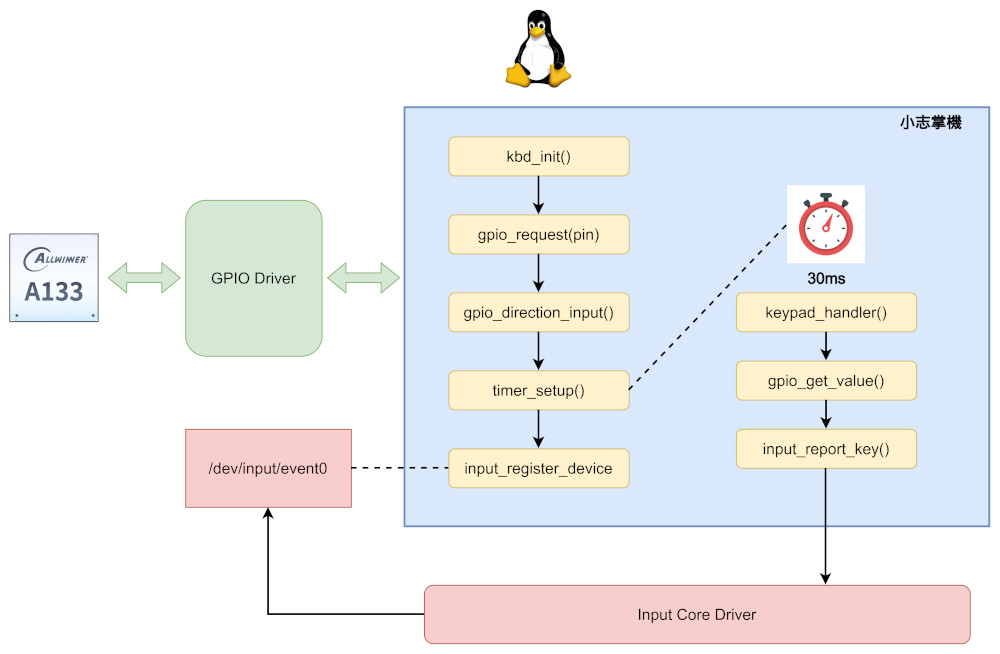
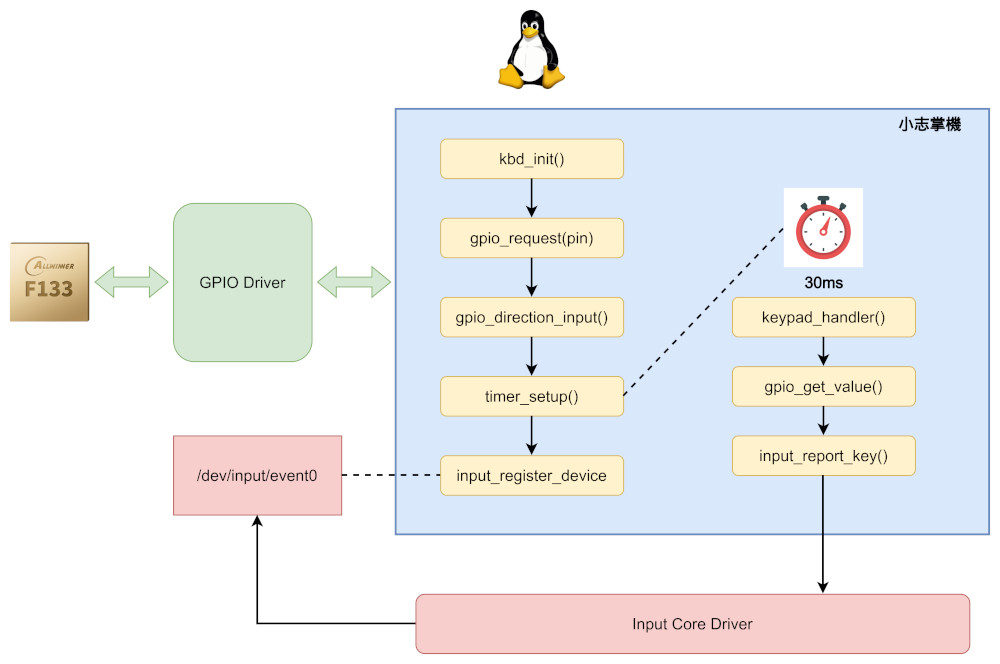
Gaviar Add more description for keypad.

diff --git a/handheld/gaviar_kernel_keypad.htm b/handheld/gaviar_kernel_keypad.htm
@@ -369,7 +369,10 @@ obj-$(CONFIG_KEYBOARD_GAVIAR) += gaviar-keypad.o
 P.S. commit ec03a6057，測試檔案https://github.com/steward-fu/website/releases/download/gaviar/kernel_test_20260919.img<br><br>
 
 小志掌機的Keypad驅動程式，其運作流程如下：<br>
-<img src="gaviar_kernel_keypad/5.jpg" class="maxSize">
+<img src="gaviar_kernel_keypad/5.jpg" class="maxSize"><br><br>
+
+小志掌機的Keypad驅動程式只負責註冊InputDevice，接著設定一個Timer做GPIO輪詢的操作，輪詢的間隔是30ms，比較好的作法其實是中斷＋輪詢，不過，簡單製作的話，輪詢方式其實已經很足夠使用了，值得一提是，GPIO驅動程式，因為Tina-Linux已經移植完成，所以我們可以直接透過GPIO驅動程式來取得按鍵的狀態，假如沒有GPIO驅動程式的支援，我們就需要改用I/O Mapping，然後自己去讀取暫存器(Register)的值做處理，兩者都可以達到目的，而處理完的結果，Keypad驅動程式會透過input_report_key()回報給Input Core驅動程式，這樣上層的應用程式就可以透過讀取/dev/input/event0來取得我們回報的按鍵狀態，至於按鍵的回報，司徒採用以前丁果A320的按鍵映射方式，這些按鍵的選擇倒是沒有硬性規定，不過，根據司徒的觀察，以前這些高手的選擇都是經過細心思考且基於模擬器的相容問題來設計，像是DOSBox模擬器，加入Enter、Escape的按鍵映射，可以更加方便的操作<br>
+<img src="gaviar_kernel_keypad/6.jpg" class="maxSize"><br><br>
 </p>
 
 <!-- tail -->
